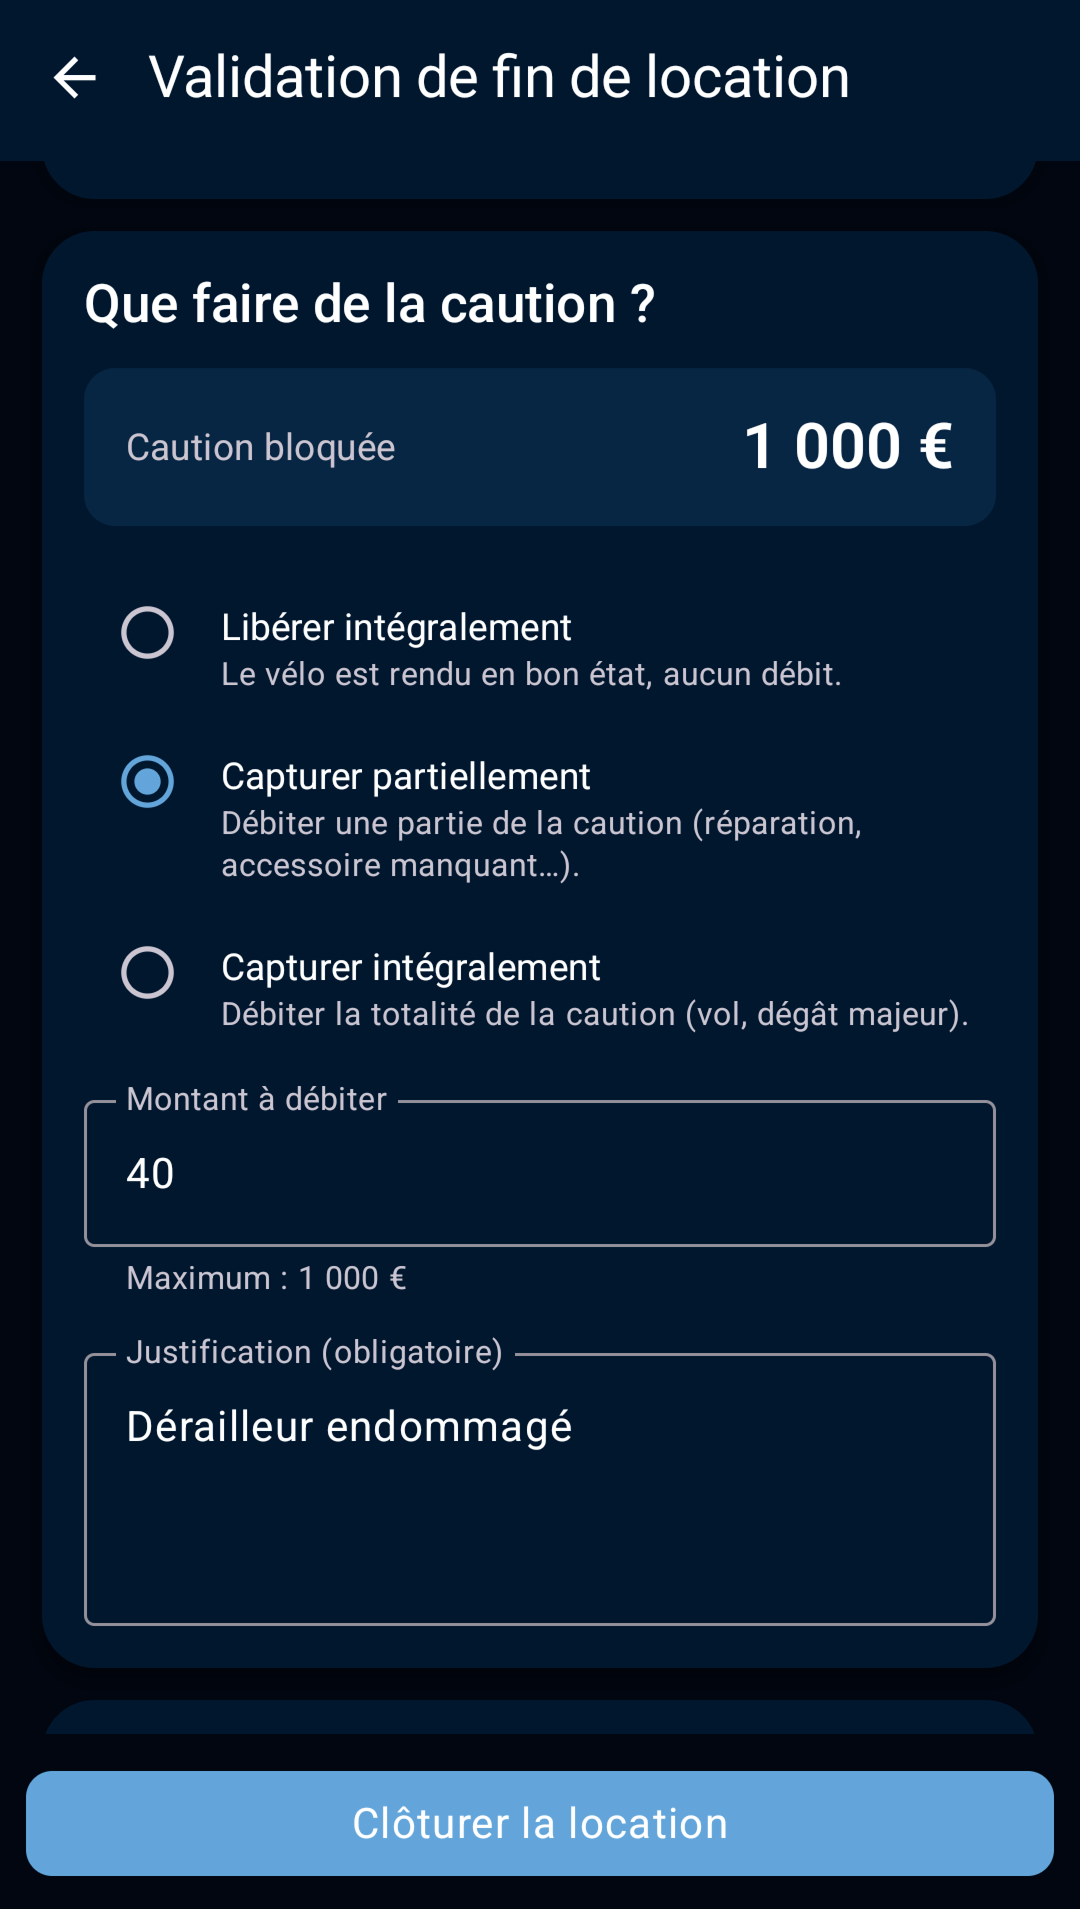
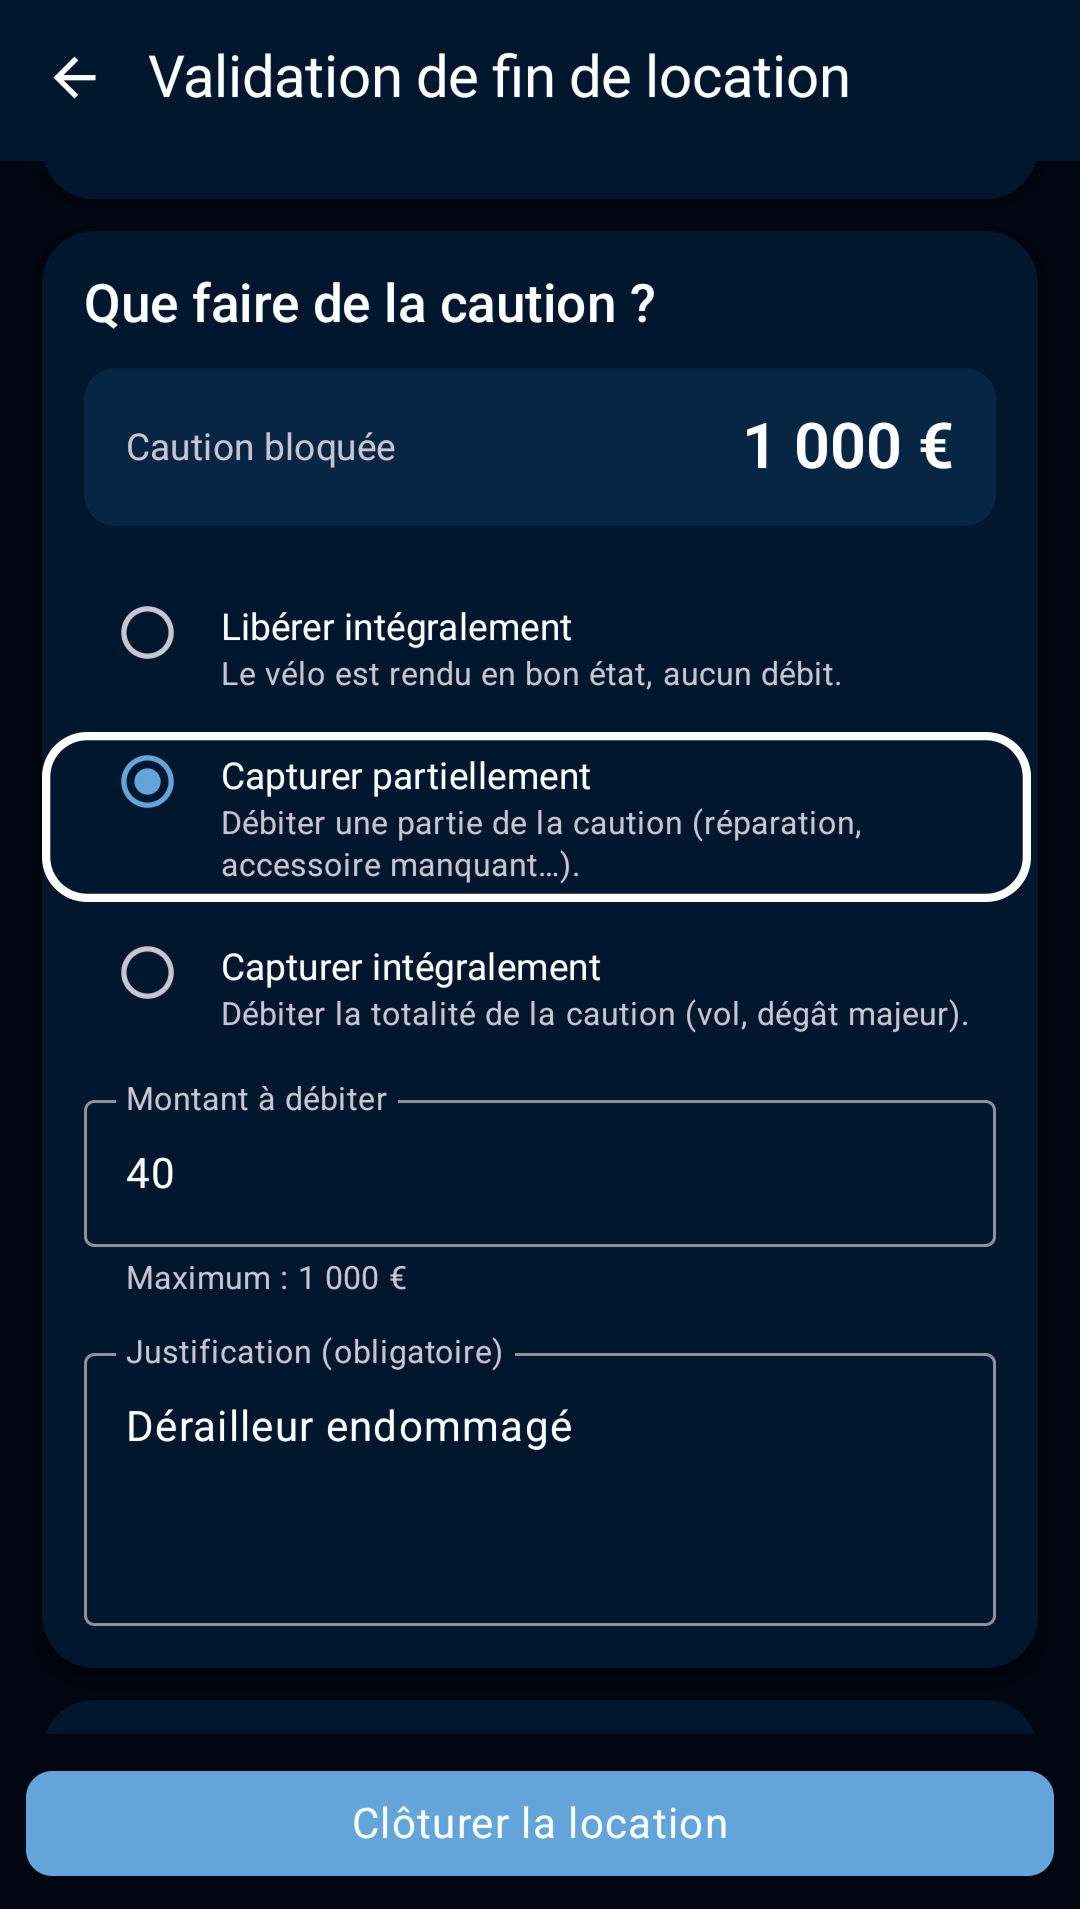
plusieurs modifications effectuées

Changed region(s): [[0.0306, 0.3709, 0.9472, 0.4636], [0.0611, 0.4636, 0.9472, 0.4945], [0.9472, 0.4018, 0.9778, 0.4636]]

diff --git a/faq.html b/faq.html
@@ -35,7 +35,7 @@
     <ol>
       <li><a href="#locataire">Locataire</a>
         <ol>
-          <li><a href="#loc-trouver">Trouver &amp; réserver un vélo</a></li>
+          <li><a href="#loc-trouver">Chercher &amp; réserver un vélo</a></li>
           <li><a href="#loc-paiement">Paiement, frais &amp; caution</a></li>
           <li><a href="#loc-inspection">Remise du vélo</a></li>
           <li><a href="#loc-pendant">Pendant la location</a></li>
@@ -45,7 +45,7 @@
       </li>
       <li><a href="#proprietaire">Propriétaire</a>
         <ol>
-          <li><a href="#pro-publier">Publier mon vélo</a></li>
+          <li><a href="#pro-publier">Ajouter un vélo</a></li>
           <li><a href="#pro-demandes">Gérer les demandes</a></li>
           <li><a href="#pro-inspection">Remise du vélo</a></li>
           <li><a href="#pro-restitution">Pendant la location &amp; Restitution du vélo</a></li>
@@ -207,15 +207,19 @@
 	  <div class="faq-a">
 		<p>Tu peux demander une prolongation depuis l’écran de la location, le prix est recalculé automatiquement. 
 		La modification reste soumise à l’accord du propriétaire.</p>
+		<div class="faq-shot">
+		<img src="images/ss_prolongation_1.png" alt="écran de prolongation de la location">
+		<img src="images/ss_prolongation_2.png" alt="écran de prolongation de la location">
+		</div>
 	  </div>
 	</details>
 
-    <h3 id="loc-restitution">État des lieux de fin de location (Restitution du vélo)</h3>
+    <h3 id="loc-restitution">Restitution du vélo</h3>
     <details class="faq-q">
       <summary>Comment terminer la location ?</summary>
       <div class="faq-a">
         <p>Le jour de la fin de location, retrouve le propriétaire pour lui rendre le vélo. 
-		Dans l’application, appuie sur « Valider la restitution », prends quelques photos et ajoute des remarques si besoin. 
+		Dans l’application, appuie sur <strong>Valider la restitution</strong>, prends quelques photos et ajoute des remarques si besoin. 
 		Le propriétaire fait ensuite la même chose de son côté. 
 		Ces deux états des lieux permettent de vérifier ensemble que tout est conforme et de clôturer la location en toute confiance. 
 		Tu as jusqu’au lendemain midi après la fin de la location pour effectuer cette restitution.</p>
@@ -265,16 +269,16 @@
 
   <section id="proprietaire">
     <h2>Propriétaire</h2>
-    <p>De la publication de l’annonce au versement, en passant par la caution.</p>
+    <p>De la publication de l’annonce au versement du paiement, en passant par la caution.</p>
 
     <h3 id="pro-publier">Ajouter un vélo</h3>
     <details class="faq-q" open>
       <summary>Comment ajouter un vélo ?</summary>
       <div class="faq-a">
-        <p>Sur l’application, appuie sur le menu « Mes vélos » puis sur le bouton « + ». 
+        <p>Sur l’application, appuie sur le bouton de la barre de navigation <strong>Mes vélos</strong> ➡ <strong>+</strong>. 
 		Sur l’écran, tu dois ajouter au moins une photo, un titre et une description, les caractéristiques de ton vélo, 
 		l’adresse où se situe le vélo, tes tarifs, la durée minimale de location et le montant de la caution. 
-		Pour t’aider à remplir les champs, un guide de remplissage est disponible en appuyant sur le « ? » en haut à droite de l’écran.</p>
+		Pour t’aider à remplir les champs, un guide de remplissage est disponible en appuyant sur le <strong>?</strong> en haut à droite de l’écran.</p>
         <div class="faq-shot">
 		<img src="images/ss_ajout_vide.png" alt="écran d’ajout de vélo">
 		<img src="images/ss_ajout_1.png" alt="écran d’ajout de photos et des caractéristiques du vélo">
@@ -293,10 +297,10 @@
       </div>
     </details>
     <details class="faq-q">
-	  <summary>Comment indiquer que mon vélo n'est pas disponible ?</summary>
+	  <summary>Comment indiquer que mon vélo n’est pas disponible ?</summary>
 	  <div class="faq-a">
 		<p>Pour l’instant, LokaVélo n’a pas de calendrier de disponibilité intégré. 
-		Pour une indisponibilité prolongée, décoche la case « Disponible actuellement ? » sur la fiche de ton vélo : il n’apparaîtra plus dans les recherches. 
+		Pour une indisponibilité prolongée, décoche la case <strong>Disponible actuellement ?</strong> sur la fiche de ton vélo : il n’apparaîtra plus dans les recherches. 
 		Pour une demande ponctuelle qui ne te convient pas (dates, durée…), refuse-la simplement depuis l’application en indiquant le motif au locataire. 
 		Dès qu’une location est confirmée sur certaines dates, le vélo disparaît automatiquement des recherches sur cette période.</p>
 	  </div>
@@ -312,7 +316,7 @@
         <ul>
           <li><strong>Accepter</strong> aux conditions proposées par le locataire.</li>
           <li><strong>Refuser</strong>, en indiquant un motif au locataire pour rester transparent.</li>
-          <li><strong>Faire une contre-offre</strong> avec un autre prix, que le locataire est libre d’accepter ou non.</li>
+          <li><strong>Faire une offre</strong> avec un autre prix, que le locataire est libre d’accepter ou non.</li>
         </ul>
 
         <p>La location n’est confirmée qu’une fois le paiement effectué par le locataire — n’attends pas trop longtemps pour répondre, ta réactivité fait toute la différence !</p>
@@ -337,29 +341,22 @@
       </div>
     </details>
 
-    <h3 id="pro-inspection">Remise du vélo (Inspection du vélo)</h3>
-    <details class="faq-q">
-      <summary>Quand puis-je faire l’inspection ?</summary>
+    <h3 id="pro-inspection">Remise du vélo (Inspection)</h3>
+	<details class="faq-q">
+      <summary>Comment bien préparer la remise du vélo ?</summary>
       <div class="faq-a">
-        <p>L’inspection devient disponible <strong>la veille du jour de début, à partir de 17h00 (heure de Paris)</strong>.</p>
-
-        <p>Avant ce créneau, le bouton « Démarrer l’inspection » reste désactivé. Le locataire soumet d’abord son propre état des lieux ; il ne te reste plus qu’à le valider à ton tour côté propriétaire.</p>
-      </div>
-    </details>
-    <details class="faq-q">
-      <summary>Que faire avant l’inspection du vélo ?</summary>
-      <div class="faq-a">
-        <p>Prends quelques minutes pour préparer ton vélo et l’échange avec le locataire :</p>
+        <p>Avant de remettre le vélo au locataire, pense à vérifier le bon fonctionnement de ce dernier :</p>
         <ul>
           <li>Vérifie l’état général : freins, pneus, transmission, éclairage.</li>
-          <li>Signale les défauts connus pour qu’ils soient documentés dès le départ.</li>
-          <li>Explique le fonctionnement, en particulier s’il s’agit d’un vélo électrique (autonomie, niveaux d’assistance, recharge).</li>
-          <li>Précise la marche à suivre en cas de crevaison ou de panne mineure.</li>
+          <li>Signale les défauts connus au locataire pour éviter les mauvaises surprises.</li>
+          <li>Si tu loues un vélo électrique, explique au locataire les spécificités de ce dernier (autonomie, niveaux d’assistance, recharge).</li>
+          <li>Précise la marche à suivre en cas de crevaison ou de petite panne.</li>
         </ul>
 
         <p>C’est aussi un bon moment pour installer une relation de confiance avec ton locataire.</p>
       </div>
     </details>
+
     <details class="faq-q">
       <summary>Comment se passe l’inspection du vélo ?</summary>
       <div class="faq-a">
@@ -374,6 +371,16 @@
 		</div>
       </div>
     </details>
+	
+	<details class="faq-q">
+      <summary>À partir de quand peut-on faire l’inspection du vélo ?</summary>
+      <div class="faq-a">
+        <p>L’inspection devient disponible <strong>la veille du jour de début, à partir de 17h00 (heure de Paris)</strong>.</p>
+
+        <p>Avant ce créneau, le bouton <strong>Démarrer l’inspection</strong> reste désactivé. Le locataire soumet d’abord son propre état des lieux ; il ne te reste plus qu’à le valider à ton tour côté propriétaire.</p>
+      </div>
+    </details>
+	
     <details class="faq-q">
       <summary>Dois-je fournir un antivol ?</summary>
       <div class="faq-a">
@@ -406,7 +413,7 @@
     <details class="faq-q">
       <summary>Quand puis-je valider la restitution ?</summary>
       <div class="faq-a">
-        <p>La fenêtre de restitution s’ouvre <strong>le jour de fin de la location, à 00h00 (heure de Paris)</strong>, et reste ouverte jusqu’au lendemain à 12h00 (tolérance pour les rendus du matin).</p>
+        <p>La fenêtre de restitution s’ouvre <strong>le jour de fin de la location, à minuit (heure de Paris)</strong>, et reste ouverte jusqu’au lendemain à 12h00 (tolérance pour les rendus du matin).</p>
 
         <p>Le locataire soumet d’abord son état des lieux de sortie. Une fois qu’il l’a fait, tu reçois une notification pour valider à ton tour.</p>
       </div>
@@ -414,21 +421,25 @@
     <details class="faq-q">
       <summary>Comment se passe la restitution ?</summary>
       <div class="faq-a">
-        <p>À la restitution, tu vérifies l’état du vélo avec le locataire et tu indiques ta décision sur la caution : <strong>libération totale</strong>, <strong>retenue partielle</strong> ou <strong>retenue totale justifiée</strong>.</p>
-
-        <p>Ta décision est appliquée immédiatement, et le règlement de la location est déclenché dans la foulée vers ton compte.</p>
+        <p>À la restitution, vérifie attentivement l’état du vélo avec le locataire et décide que faire de la caution : <strong>libérer intégralement</strong>, <strong>capturer partiellement</strong> ou <strong>capturer intégralement</strong>.</p>
+		<p>Si tu décides de <strong>capturer partiellement</strong> ou de <strong>capturer intégralement</strong> la caution, tu devras justifier ta décision. Le locataire devra en être informé.</p>
+        <p>Selon la décision, le montant de la caution sera reversée au locataire ou te sera reversée dans un délai de 5 à 10 jours ouvrés.</p>
         <div class="faq-shot">
 		<img src="images/ss_restitution_proprietaire.png" alt="écran de restitution du propriétaire">
-		<img src="images/ss_restitution_proprietaire_2.png" alt="deuxième écran de restitution du propriétaire">
+		<img src="images/ss_restitution_proprietaire_2.png" alt="deuxième écran de restitution du propriétaire"></div>
+		<div class="faq-shot">
+		<img src="images/ss_caution_1.png" alt="écran de caution libérée">
+		<img src="images/ss_caution_2.png" alt="écran de caution partiellement libérée">
+		<img src="images/ss_caution_3.png" alt="écran de caution non libérée">
 		</div>
       </div>
     </details>
     <details class="faq-q">
       <summary>Que faire si le locataire ne rend pas le vélo ?</summary>
       <div class="faq-a">
-        <p>Commence par contacter le locataire via la messagerie : un retard de quelques heures n’est pas forcément une non-restitution.</p>
+        <p>Commence par contacter le locataire via la messagerie : un retard de quelques heures n’est pas forcément synonyme de non-restitution.</p>
 
-        <p>Si la situation se confirme passées <strong>2 heures après l’heure de fin prévue</strong>, un bouton <strong>« Signaler une non-restitution »</strong> apparaît sur l’écran de la location. Tu peux y joindre un motif et des photos pour appuyer ton signalement.</p>
+        <p>Si la situation se confirme passées <strong>2 heures après l’heure de fin prévue</strong>, un bouton <strong>Signaler une non-restitution</strong> apparaît sur l’écran de la location. Tu peux y joindre un motif et des photos pour appuyer ton signalement.</p>
 
         <p>Le locataire reçoit alors un délai de <strong>24 heures</strong> pour réagir : restituer le vélo ou nous contacter. Passé ce délai sans action de sa part, <strong>la caution est prélevée intégralement</strong> et reversée sur ton compte, sans démarche supplémentaire de ta part.</p>
 
@@ -524,7 +535,7 @@
       <div class="faq-a">
         <p>Oui, mais cela impacte le locataire : en cas d’annulation par le propriétaire, <strong>le locataire est intégralement remboursé</strong>, frais de service inclus.</p>
 
-        <p>Pense à le prévenir par la messagerie en expliquant la raison — c’est toujours plus apprécié qu’une annulation brutale.</p>
+        <p>Pense à le prévenir par la messagerie en expliquant la raison — c’est toujours plus appréciable qu’une annulation brutale.</p>
         <div class="faq-shot">
 		<img src="images/ss_annulation_1.png" alt="écran d’annulation">
 		<img src="images/ss_annulation_2.png" alt="deuxième écran d’annulation">
@@ -602,7 +613,7 @@
       <summary>J’ai oublié mon mot de passe.</summary>
       <div class="faq-a">
         <p>Appuie sur <strong>Mot de passe oublié</strong> sur l’écran de connexion pour recevoir un email de réinitialisation.
-		Tu peux aussi réinitialiser ton mot de passe depuis l'écran <strong>Compte</strong> ➡ <strong>Paramètres du compte</strong> ➡ <strong>Changer le mot de passe</strong></p>
+		Tu peux aussi réinitialiser ton mot de passe depuis l’écran <strong>Compte</strong> ➡ <strong>Paramètres du compte</strong> ➡ <strong>Changer le mot de passe</strong></p>
         <div class="faq-shot">
 		<img src="images/ss_mdp_oublie.png" alt="écran de connexion">
 		<img src="images/ss_mdp_oublie_2.png" alt="écran de changement du mot de passe"></div>
@@ -612,7 +623,7 @@
       <summary>Comment supprimer mon compte ?</summary>
       <div class="faq-a">
         <p>Tu souhaites nous quitter ? Nous sommes tristes de savoir que tu veux partir, mais nous respectons ton choix. 
-		Appuie sur le bouton <strong>Compte</strong> depuis la barre de navigation puis ➡ <strong>Paramètres du compte</strong> et enfin ➡ <strong>Supprimer le compte</strong>. 
+		Appuie sur le bouton <strong>Compte</strong> depuis la barre de navigation puis ➡ <strong>Paramètres du compte</strong> ➡ <strong>Supprimer le compte</strong>. 
 		Toutes les données de ton compte seront supprimées de manière définitive. 
 		Si tu as une ou des locations en cours, tu devras les terminer avant de pouvoir supprimer ton compte.</p>
         <div class="faq-shot">
@@ -625,7 +636,7 @@
 
   <section id="contact-faq">
     <h2>Encore une question ?</h2>
-    <p>Une question sur une location, un paiement, une caution ou ton compte ? Contacte LokaVélo !</p>
+    <p>Une question sur une location, un paiement, une caution ou sur ton compte ? Contacte LokaVélo !</p>
     <div class="contact-actions">
       <a href="contact" class="btn-primary">Contact</a>
     </div>

diff --git a/index.html b/index.html
@@ -98,7 +98,7 @@
     </div>
 
     <div class="cta-zone">
-      <!-- Les deux boutons partagent UN conteneur en ligne : c'est la seule
+      <!-- Les deux boutons partagent UN conteneur en ligne : c’est la seule
            façon de les mettre côte à côte. -->
       <div class="cta-buttons">
         <a href="https://play.google.com/store/apps/details?id=com.arnoagape.lokavelo" class="btn-android">
@@ -206,14 +206,12 @@
 
     <div class="faq-preview-grid">
       <details class="faq-item" open>
-        <summary>Comment LokaVélo sécurise-t-il les locations ?</summary>
+        <summary>Qu’est-ce qui sécurise une location ?</summary>
         <p>
-          Plusieurs protections ont été mises en place pour que les locations se déroulent sereinement : 
-		  le paiement du locataire est versé au propriétaire uniquement lorsque l’état des lieux de sortie a été effectué.
-		  Le paiement est sécurisé grâce à notre plateforme partenaire Stripe. Une caution par empreinte bancaire 
-		  et les états des lieux d’entrée et de sortie sont réalisés directement dans l’application. 
-		  Les photos et les remarques enregistrées lors des états des lieux permettent également de conserver 
-		  une trace claire de l’état du vélo tout au long de la location.
+          LokaVélo met en place plusieurs garanties pour sécuriser chaque location. 
+		  Les paiements sont protégés par Stripe et le propriétaire reçoit les fonds uniquement après la restitution du vélo. 
+		  Une caution par empreinte bancaire sécurise la transaction, tandis que les états des lieux d’entrée et de sortie, 
+		  réalisés directement dans l’application, permettent de conserver une trace précise de l’état du vélo grâce à des photos et des remarques.
         </p>
       </details>
 
@@ -227,7 +225,7 @@
       </details>
 
       <details class="faq-item">
-        <summary>En tant que locataire, mon paiement est-il directement viré au propriétaire ?</summary>
+        <summary>En tant que locataire, mon paiement est-il directement transféré au propriétaire ?</summary>
         <p>
           Lorsque tu paies la location par carte bancaire, le propriétaire ne reçoit les fonds
           qu’après la fin de l’état des lieux. Ce dispositif protège à la fois le locataire et le propriétaire :
